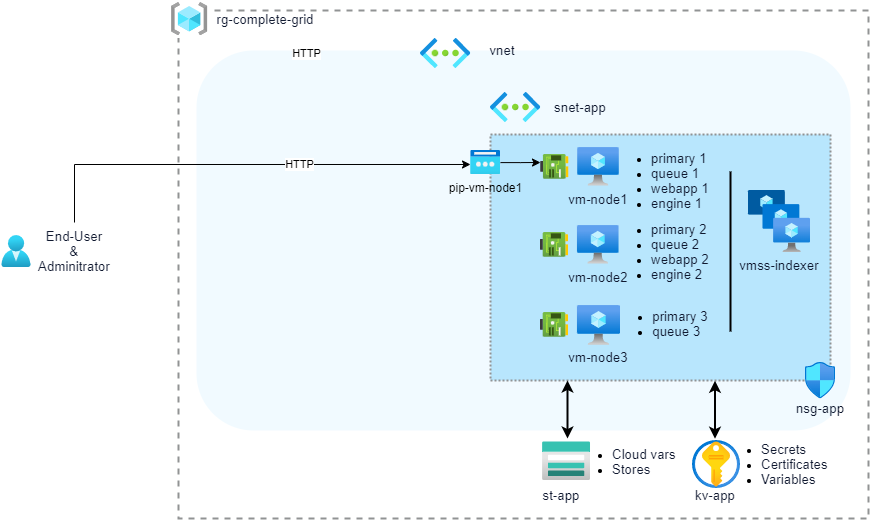
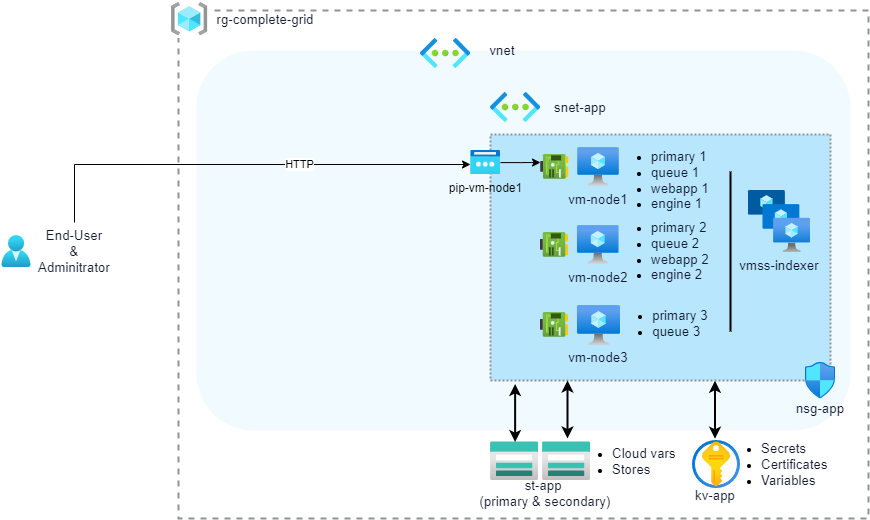
update docs

diff --git a/terraform/README.md b/terraform/README.md
@@ -1,4 +1,4 @@
-# Terraform <img alt="11.7.0" src="https://img.shields.io/static/v1?label=Sinequa&message=11.7.0&color=9cf">
+# Terraform <img alt="11.7.1" src="https://img.shields.io/static/v1?label=Sinequa&message=11.7.1&color=9cf">
 
 Sinequa For Azure (S4A) Terraform is a set of Terraform scripts used for a Sinequa ES grid deployment.
 
@@ -6,12 +6,13 @@ Sinequa For Azure (S4A) Terraform is a set of Terraform scripts used for a Sineq
 0. [Prerequisite](#prerequisite)<br>
 1. [Terraform Modules](#modules)<br>
 2. [complete_grid Sample](#complete_grid)<br>
-3. [complete_grid_with_app_gateway Sample](#complete_grid_with_app_gateway)<br>
-4. [standalone_server Sample](#standalone_server)<br>
-5. [Operations](#operations)<br>
-5.1.  [Add a VM Node](#add_vm)<br>
-5.2.  [Add a VMSS Node](#add_vmss)<br>
-5.3.  [Update a Sinequa Grid](#update)<br>
+3. [complete_2grids Sample](#complete_2grids)<br>
+4. [complete_grid_with_app_gateway Sample](#complete_grid_with_app_gateway)<br>
+5. [standalone_server Sample](#standalone_server)<br>
+6. [Operations](#operations)<br>
+6.1.  [Add a VM Node](#add_vm)<br>
+6.2.  [Add a VMSS Node](#add_vmss)<br>
+6.3.  [Update a Sinequa Grid](#update)<br>
 
   
 ## Scripts
@@ -19,6 +20,8 @@ Sinequa For Azure (S4A) Terraform is a set of Terraform scripts used for a Sineq
 ### 0. Prerequisite <a name="prerequisite">
 
 * https://www.terraform.io/downloads.html
+* Access to https://portal.azure.com
+* Install Azure CLI: https://docs.microsoft.com/en-us/cli/azure/install-azure-cli-windows?tabs=azure-cli
 
 ### 1. Terraform Modules <a name="modules">
 
@@ -60,9 +63,10 @@ In the modules folder, scripts are provided to build blocks:
 | location                 | Azure location. |
 | resource_group_name      | Resource group for deployment. |
 | kv_name                  | Key vault to create. Name as to be unique on Azure. |
-| st_name                  | Storage account to create. Name as to be unique on Azure. |
-| container_name           | Container in the storage account. |
-| data_storage_root        | Root folder of the grid. It must contains the **grids** folder. Eg: grids/mygrid|
+| st_premium_name          | Primary Storage account to create. Name as to be unique on Azure. |
+| st_hot_name              | Secondary Storage account to create. Name as to be unique on Azure. |
+| org_name                 | Organization Name. An Orgranization can contains several grids (like dev, prod) |
+| grid_name                | Grid Name to deploy (e.g: dev) |
 | license                  | Sinequa license to be uploaded in the key vault as secret. Optional. |
 | admin_password           | Store the OS password as secret |
 | default_admin_password   | Store the default Sinequa ES admin password as secret |
@@ -73,7 +77,25 @@ In the modules folder, scripts are provided to build blocks:
 | blob_sinequa_keyvault    | Sinequa cloud variable to specify the key vault URL. |
 | blob_sinequa_version     | Sinequa Version installed. Optional |
 | blob_sinequa_queuecluster | Sinequa cloud variable to create a [queue cluster](https://doc.sinequa.com/en.sinequa-es.v11/Content/en.sinequa-es.admin-grid-queue-clusters.html). Optional. |
+| blob_sinequa_node_aliases | Map of confiuguration Aliases. Optional. |
 | tags                     | Azure tags. Optional. |
+
+
+
+* **service/blob_grid_var**: Deploys Blob Var for a particular grid.
+
+| Variables                | Description |
+| ------------------------ | ----------- |
+| storage_account_name     | Storage account for blob vars. |
+| org_name                 | Organization Name. An Orgranization can contains several grids (like dev, prod) |
+| grid_name                | Grid Name to deploy (e.g: dev) |
+| blob_sinequa_primary_nodes | Sinequa cloud variable for sRPC connection string of [primary nodes](https://doc.sinequa.com/en.sinequa-es.v11/Content/en.sinequa-es.admin-grid-primary-nodes.html). |
+| blob_sinequa_authentication_enabled | Boolean for enabling Authentication with Secret. If true, it requires `{blob_sinequa_authentication_secret}` . Default value is `false` |
+| blob_sinequa_beta        | Sinequa cloud variable to enable beta features. Optional. |
+| blob_sinequa_keyvault    | Sinequa cloud variable to specify the key vault URL. |
+| blob_sinequa_version     | Sinequa Version installed. Optional |
+| blob_sinequa_queuecluster | Sinequa cloud variable to create a [queue cluster](https://doc.sinequa.com/en.sinequa-es.v11/Content/en.sinequa-es.admin-grid-queue-clusters.html). Optional. |
+| blob_sinequa_node_aliases | Map of confiuguration Aliases. Optional. |
 
 * **vm**: Deploys a virtual machine.
 
@@ -160,7 +182,32 @@ PS C:\S4A\terraform\confs\complete_grid> .\terraform validate
 PS C:\S4A\terraform\confs\complete_grid> .\terraform apply
 ```
 
-### 3. complete_grid_with_app_gateway Sample <a name="complete_grid_with_app_gateway">
+
+### 3. complete_2grids Sample <a name="complete_2grids">
+
+`complete_2grids\conf.tf` is a deployment of all modules with these objects:
+ * Shared
+  * 1 key vault
+  * 1 network security group
+  * 2 storage account
+  * 1 virtual network
+ * Grid1
+  * 1 public IP address
+  * 1 virtual machine scale sets for indexer
+  * 3 virtual machines for [primary nodes](https://doc.sinequa.com/en.sinequa-es.v11/Content/en.sinequa-es.admin-grid-primary-nodes.html)
+ * Grid2
+  * 1 public IP address
+  * 1 virtual machine scale sets for indexer
+  * 3 virtual machines for [primary nodes](https://doc.sinequa.com/en.sinequa-es.v11/Content/en.sinequa-es.admin-grid-primary-nodes.html)
+
+![Sinequa For Azure Deployment](../images/S4A_complete_2grids.png)
+
+```powershell
+PS C:\S4A\terraform\confs\complete_grid> .\terraform init
+PS C:\S4A\terraform\confs\complete_grid> .\terraform validate
+PS C:\S4A\terraform\confs\complete_grid> .\terraform apply
+```
+### 4. complete_grid_with_app_gateway Sample <a name="complete_grid_with_app_gateway">
 
 `complete_grid_with_app_gateway\conf.tf` is a deployment of all modules with these objects:
  * 1 application gateway
@@ -182,7 +229,7 @@ PS C:\S4A\terraform\confs\complete_grid_with_app_gateway> .\terraform apply
 ```
 
 
-### 4. standalone_server Sample <a name="standalone_server">
+### 5. standalone_server Sample <a name="standalone_server">
 
 `standalone_server\conf.tf` is a deployment of all modules with these objects:
  * 1 key vault
@@ -200,9 +247,8 @@ PS C:\S4A\terraform\confs\standalone_server> .\terraform validate
 PS C:\S4A\terraform\confs\standalone_server> .\terraform apply
 ```
 
-5. [](#operations)<br>
-### 5. Operations <a name="operations">	
-#### 5.1 Add a VM Node <a name="add_vm"> 
+### 6. Operations <a name="operations">	
+#### 6.1 Add a VM Node <a name="add_vm"> 
 In `conf.tf`, add a new resource using the `vm` module and re-deploy.
 
 ```terraform
@@ -246,7 +292,7 @@ PS C:\S4A\terraform\confs\complete_grid> .\terraform apply
 ```
 
 
-#### 5.2 Add a VMSS Node <a name="add_vmss"> 
+#### 6.2 Add a VMSS Node <a name="add_vmss"> 
 In `conf.tf`, add a new resource using the `vmss` module and re-deploy.
 
 ```terraform
@@ -280,7 +326,7 @@ PS C:\S4A\terraform\confs\complete_grid> .\terraform apply
 ```
 
 
-### 5.3. Update a Sinequa Grid <a name="update"> 
+### 6.3. Update a Sinequa Grid <a name="update"> 
 To update a complete grid, just change the `local.image_id` of the `conf.tf` with the new version, then re-deploy.
 
 ```terraform

diff --git a/S4A_Image/README.md b/S4A_Image/README.md
@@ -1,4 +1,4 @@
-# S4A_Image <img alt="11.7.0" src="https://img.shields.io/static/v1?label=Sinequa&message=11.7.0&color=9cf">
+# S4A_Image <img alt="11.7.1" src="https://img.shields.io/static/v1?label=Sinequa&message=11.7.1&color=9cf">
 
 Sinequa For Azure (S4A) Image is a set of scripts for creating your own Sinequa image on Azure. 
 
@@ -10,9 +10,8 @@ Sinequa For Azure (S4A) Image is a set of scripts for creating your own Sinequa 
 In the script folder, different PowerShell scripts allow you to create your own Sinequa Azure image that you can deploy to create a Sinequa grid.
 
 Depending on where Sinequa images are located and where you deploy a grid, you can use different sources:
-- Deploy a grid in **another tenant** than your image: **Only use the Azure Marketplace** (official image, not a custom one).
-- Deploy a grid in the **same tenant** but not in the same subscription: Use **Marketplace** or your own **Shared Image Gallery**.
-- Deploy a grid in the **same subscription**: Use either **Marketplace**, your own **Shared image gallery** or your own **image**.
+- Deploy a grid in the **same tenant** but not in the same subscription: Use your own **Shared Image Gallery**.
+- Deploy a grid in the **same subscription**: Use your own **Shared image gallery** or your own **image**.
 
 ## Diagram
 
@@ -35,6 +34,7 @@ sinequa-for-azure-build-base-image.ps1
     [[-tempResourceGroupName] <String>]    
     [[-osUsername] <String>]    
     [[-osPassword] <Securetring>]       
+    [[-imageSku] <String>]   
 ```
 | Parameter              | Default Value                   | Description |
 | ---------------------- | ------------------------------- | ----------- |
@@ -48,6 +48,7 @@ sinequa-for-azure-build-base-image.ps1
 | tempResourceGroupName  | temp-sinequa-base-image         | Transient resource group for building a VM to generalize. |
 | osUsername             | sinequa                         | OS user for the transient VM. |
 | osPassword             | Password1234                    | OS password for the transient VM. |
+| imageSku               | 2022-datacenter-smalldisk       | Windows Image. |
 
 Example:
 ```powershell

diff --git a/README.md b/README.md
@@ -42,7 +42,7 @@ You must set the **SINEQUA_CLOUD** environment variable before starting the Sine
 |	SINEQUA_CLOUD          | "Azure"                              | Enable cloud init features.          |
 
 
-#### 2.1.2. Cloud Tags <a name="cloudtags"> <img alt="11.7.0" src="https://img.shields.io/static/v1?label=Sinequa&message=11.7.0&color=9cf">
+#### 2.1.2. Cloud Tags <a name="cloudtags"> <img alt="11.7.1" src="https://img.shields.io/static/v1?label=Sinequa&message=11.7.1&color=9cf">
 
 Cloud tags are Azure tags used on Azure resources. They are used to run some specific init tasks for a particular VM or VMSS. 
 
